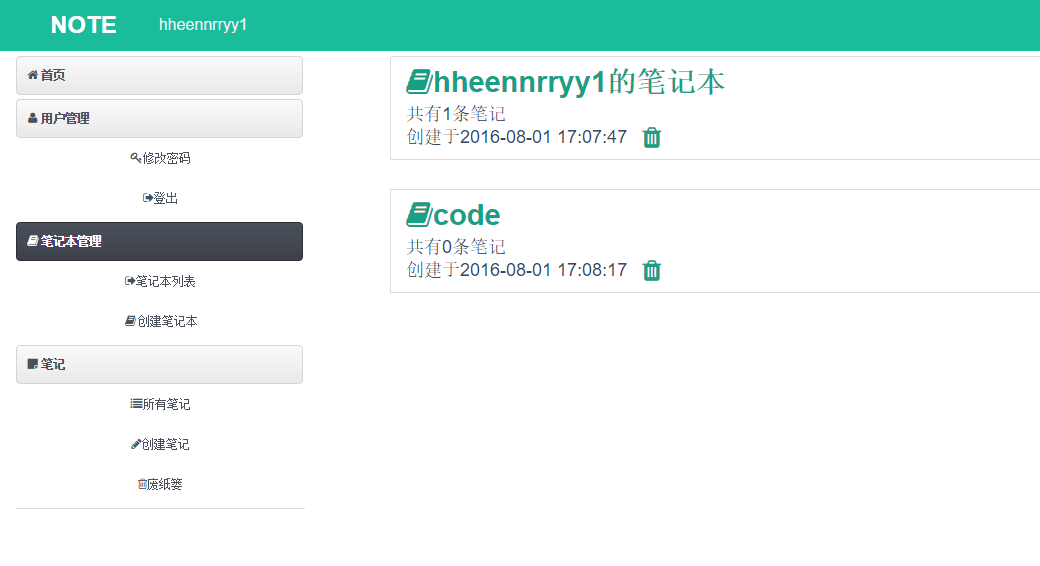
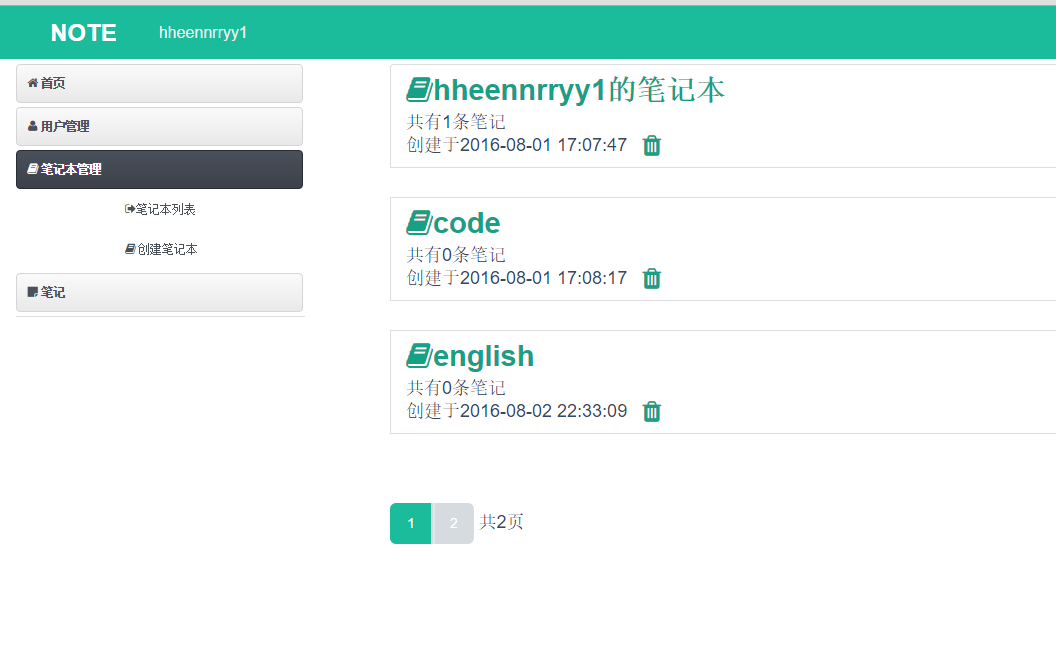
update

diff --git a/src/main/webapp/js/my/page.js b/src/main/webapp/js/my/page.js
@@ -1,0 +1,27 @@
+$(document).ready(function(){
+	if(pageNum<=5) {
+		$("#page ul li").eq(pageNum-1).addClass("active");
+	}
+	else if(pages == pageNum+2) {
+		$("#page ul li").eq(5).addClass("active");
+	}
+	else if(pages == pageNum+1) {
+		if(pageNum==6) {
+			$("#page ul li").eq(5).addClass("active");
+		}
+		else {
+			$("#page ul li").eq(6).addClass("active");
+		}
+	}
+	else if(pages == pageNum) {
+		if(pages<=7) {
+			$("#page ul li").eq(pageNum-1).addClass("active");
+		}
+		else {
+			$("#page ul li").eq(7).addClass("active");
+		}
+	}
+	else {
+		$("#page ul li").eq(4).addClass("active");
+	}
+})

diff --git a/src/main/java/com/henry/filter/LoginFilter.java b/src/main/java/com/henry/filter/LoginFilter.java
@@ -1,0 +1,66 @@
+package com.henry.filter;
+
+import java.io.IOException;
+
+import javax.servlet.Filter;
+import javax.servlet.FilterChain;
+import javax.servlet.FilterConfig;
+import javax.servlet.ServletException;
+import javax.servlet.ServletRequest;
+import javax.servlet.ServletResponse;
+import javax.servlet.annotation.WebFilter;
+import javax.servlet.http.HttpServletRequest;
+import javax.servlet.http.HttpServletResponse;
+import javax.servlet.http.HttpSession;
+
+import org.apache.log4j.Logger;
+
+import com.henry.entity.User;
+
+/**
+ * Servlet Filter implementation class LoginFilter
+ */
+@WebFilter(urlPatterns={"/user/*", "/note/*", "/notebook/*"})
+public class LoginFilter implements Filter {
+
+	Logger logger = Logger.getLogger(LoginFilter.class);
+	
+    /**
+     * Default constructor. 
+     */
+    public LoginFilter() {
+        // TODO Auto-generated constructor stub
+    }
+
+	/**
+	 * @see Filter#destroy()
+	 */
+	public void destroy() {
+		// TODO Auto-generated method stub
+	}
+
+	/**
+	 * @see Filter#doFilter(ServletRequest, ServletResponse, FilterChain)
+	 */
+	public void doFilter(ServletRequest requ, ServletResponse resp, FilterChain chain) throws IOException, ServletException {
+		HttpServletRequest request = (HttpServletRequest)requ;
+		HttpServletResponse response = (HttpServletResponse)resp;
+		HttpSession session = request.getSession();
+		User user = (User) session.getAttribute("user");
+		String ajaxHeader = request.getHeader("x-requested-with");//AJAX
+		if(user==null && ajaxHeader==null) {
+			logger.info("LoginFilter works");
+			response.sendRedirect(request.getContextPath() + "/Login.html");
+			return;
+		}
+		chain.doFilter(requ, resp);
+	}
+
+	/**
+	 * @see Filter#init(FilterConfig)
+	 */
+	public void init(FilterConfig fConfig) throws ServletException {
+		// TODO Auto-generated method stub
+	}
+
+}

diff --git a/src/main/java/com/henry/controller/NoteController.java b/src/main/java/com/henry/controller/NoteController.java
@@ -16,6 +16,7 @@ import org.springframework.web.bind.annotation.RequestParam;
 import org.springframework.web.bind.annotation.ResponseBody;
 import org.springframework.web.servlet.ModelAndView;
 
+import com.github.pagehelper.PageInfo;
 import com.henry.entity.Note;
 import com.henry.entity.Notebook;
 import com.henry.entity.User;
@@ -63,7 +64,8 @@ public class NoteController {
 		//转发到所有笔记
 		if(nbid==null) {
 			StringBuilder sb = new StringBuilder("redirect:/note/list/");
-			sb.append(user.getId()).append("?status=").append(status);
+			sb.append(user.getId()).append("?status=")
+				.append(status).append("&pageNum=1");
 			return sb.toString();
 		}
 		
@@ -127,18 +129,18 @@ public class NoteController {
 	 * 转到笔记列表，显示该用户的所有笔记 
 	 */
 	@RequestMapping("/list/{userId}")
-	public ModelAndView list(ModelAndView mav, @PathVariable Integer userId, @RequestParam Byte status) {
+	public ModelAndView list(ModelAndView mav, @PathVariable Integer userId, 
+			@RequestParam() Byte status, @RequestParam int pageNum) {
 		Note note = new Note(status, new User(userId, null));
-		List<Note> notes = noteService.selectByStatusAndUserId(note);
-		mav.addObject("notes", notes);
+		
+		PageInfo<Note> page = noteService.selectByStatusAndUserId(note, pageNum);
+		mav.addObject("page", page);
 		
 		if(status==1) {
-			System.out.println(1);
 			mav.setViewName("allNoteList");
 		}
 		
 		else if(status==0) {
-			System.out.println(0);
 			mav.setViewName("trash");
 		}
 		
@@ -184,6 +186,6 @@ public class NoteController {
 	@RequestMapping("/delete/{id}")
 	public String delete(@PathVariable Integer id) {
 		noteService.deleteById(id);
-		return "redirect:/note/list/" + user.getId() + "?status=0";
+		return "redirect:/note/list/" + user.getId() + "?status=0&pageNum=1";
 	}
 }

diff --git a/src/main/java/com/henry/service/NoteService.java b/src/main/java/com/henry/service/NoteService.java
@@ -5,6 +5,8 @@ import java.util.List;
 import org.springframework.beans.factory.annotation.Autowired;
 import org.springframework.stereotype.Service;
 
+import com.github.pagehelper.PageHelper;
+import com.github.pagehelper.PageInfo;
 import com.henry.dao.NoteMapper;
 import com.henry.entity.Note;
 
@@ -14,12 +16,18 @@ public class NoteService {
 	@Autowired
 	private NoteMapper mapper;
 	
+	public static final int PAGE_SIZE = 3;
+	
 	public Note selectById(Integer id) {
 		return mapper.selectById(id);
 	}
 	
-	public List<Note> selectByStatusAndUserId(Note note) {
-		return mapper.selectByStatusAndUserId(note);
+	public PageInfo<Note> selectByStatusAndUserId(Note note, int pageNum) {
+		//pageNum 第几页,pageSize 每页显示多少条
+		PageHelper.startPage(pageNum, PAGE_SIZE);
+		List<Note> notes =  mapper.selectByStatusAndUserId(note);
+		PageInfo<Note> page = new PageInfo<>(notes);
+		return page;
 	}
 	
 	public int deleteById(Integer id) {

diff --git a/src/main/java/com/henry/service/NotebookService.java b/src/main/java/com/henry/service/NotebookService.java
@@ -16,13 +16,15 @@ public class NotebookService {
 	@Autowired
 	private NotebookMapper mapper;
 	
+	public static final int PAGE_SIZE = 3;
+	
 	public List<Notebook> selectiveSelect(Notebook notebook) {
 		return mapper.selectiveSelect(notebook);
 	}
 	
 	public PageInfo<Notebook> selectNotesByNtbkId(Notebook notebook, int pageNum) {
 		//pageNum,pageSize 每页显示5条
-		PageHelper.startPage(pageNum, 5);
+		PageHelper.startPage(pageNum, PAGE_SIZE);
 		List<Notebook> notebooks =  mapper.selectiveSelect(notebook);
 		PageInfo<Notebook> page = new PageInfo<Notebook>(notebooks);
 		return page;

diff --git a/src/main/java/com/henry/controller/NotebookController.java b/src/main/java/com/henry/controller/NotebookController.java
@@ -75,7 +75,7 @@ public class NotebookController {
 		User user = (User) session.getAttribute("user");
 		
 		notebookService.delete(id);
-		return "redirect:/notebook/list/" + user.getId();
+		return "redirect:/notebook/list/" + user.getId() + "?pageNum=1";
 	}
 	
 	/*

diff --git a/README.md b/README.md
@@ -1,4 +1,4 @@
-##Note 笔记本系统
+##Note 笔记系统
 ###Framework and Tools 框架和工具
 * Java&IDE: JDK8 Eclipse
 * Backend: SpringMVC4.2.5 Spring4.2.5 MyBatis3.4.0 (Configured by annotation)
